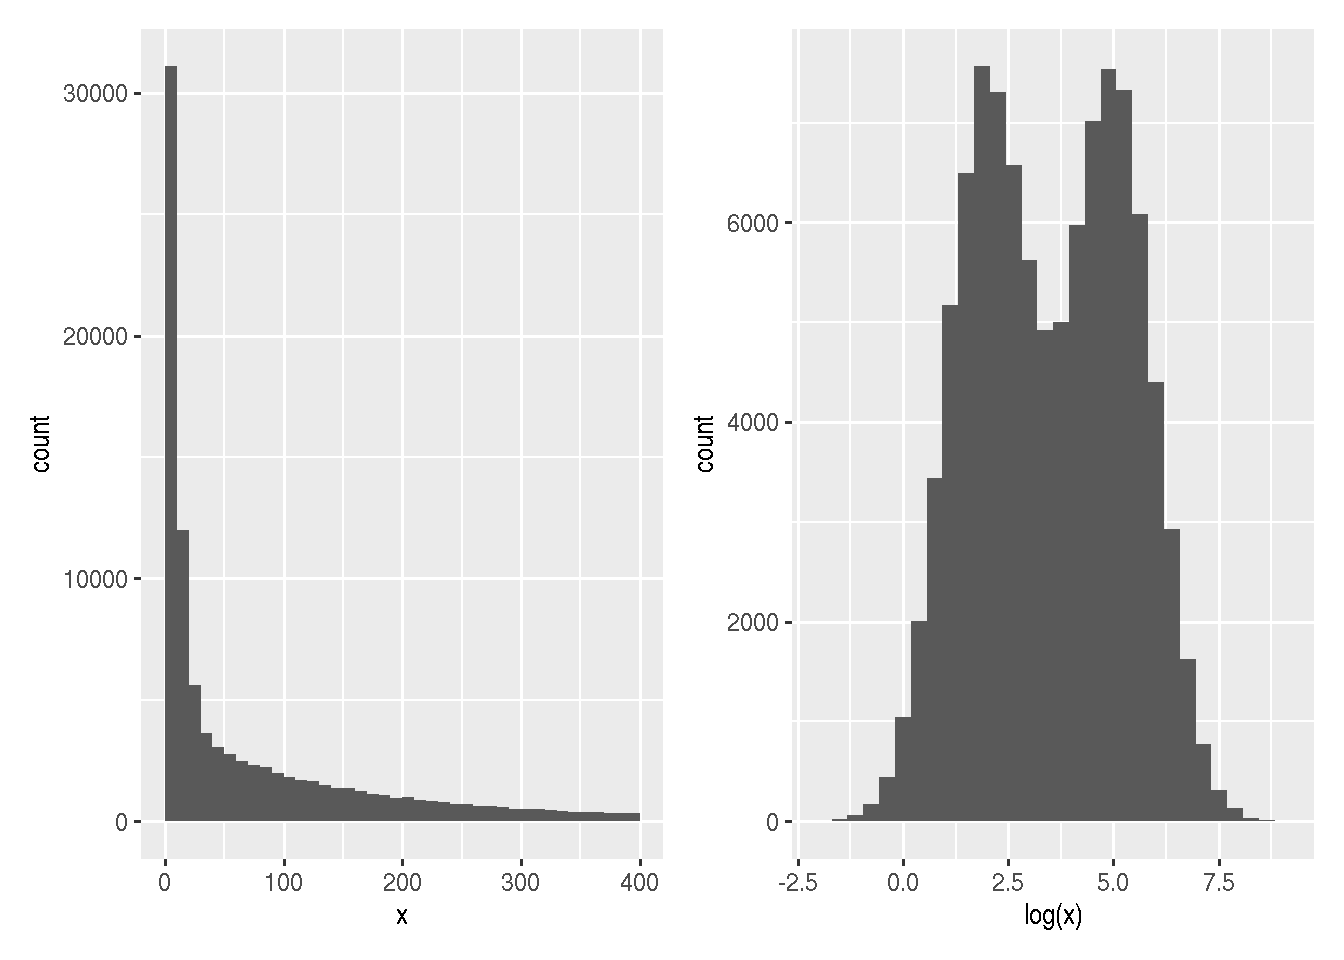
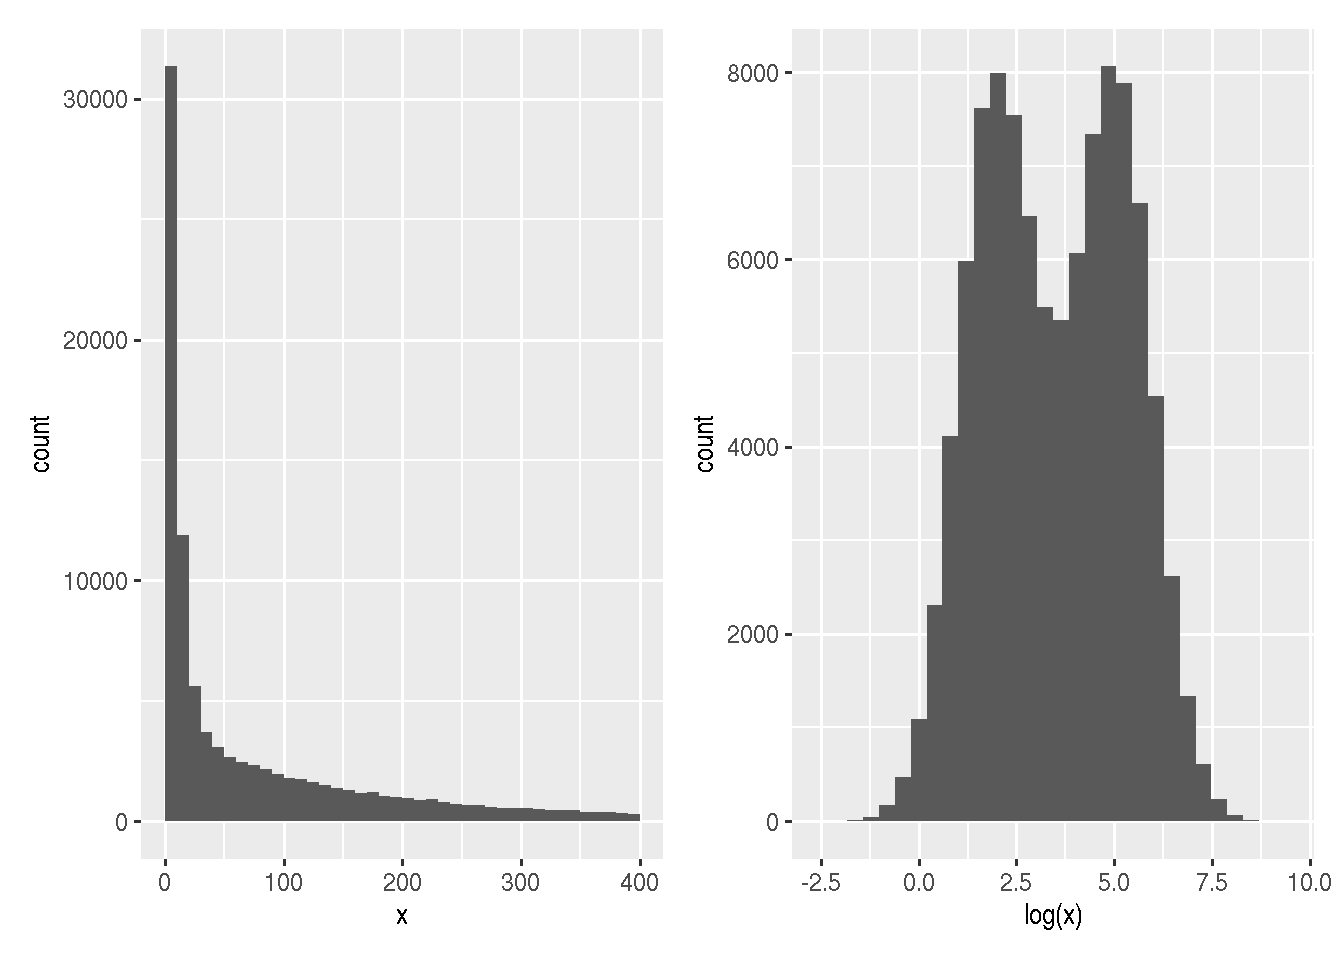
udpate ex + rebuild

diff --git a/docs/sec-refresher.html b/docs/sec-refresher.html
@@ -13,7 +13,7 @@
 
 <meta name="author" content="Laurent Gatto" />
 
-<meta name="date" content="2024-09-30" />
+<meta name="date" content="2024-10-01" />
 
 <script type="text/x-mathjax-config">
 MathJax.Hub.Config({
@@ -372,9 +372,10 @@ state it explicitly in your response.</p>
 <li><p>Create a matrix of dimenions 100 by 100 containing data from a
 normal distribution of mean 0 and standard deviation 1.</p></li>
 <li><p>Compute the means of each row and each column using the <code>apply()</code>
-and <code>rowMeans()</code> and <code>colMeans()</code> function. Confirm that both
-provide the same results.</p></li>
-<li><p>Compute the difference between the column means and the row means.</p></li>
+and <code>rowMeans()</code>/<code>colMeans()</code> functions. Confirm that both provide
+the same results.</p></li>
+<li><p>Compute the difference between the column means and the row
+means. Does the result make sense?</p></li>
 </ul>
 <p class="question-end">
 <span class="fa fa-square-o solution-icon"></span>
@@ -387,11 +388,12 @@ provide the same results.</p></li>
 </p>
 <div class="question-body">
 <ul>
-<li>Using the data <code>kem2_se</code> data from the <code>rWSBIM1322</code> data, compute de
-delta values measured for each gene (delta is the difference between
-the highest and lowest values). To do this, write a function
-<code>delta()</code> that takes a vector of numerics as input and returns the
-delta value, and apply it on the object’s assay.</li>
+<li><p>Using the data <code>kem2_se</code> data from the <code>rWSBIM1322</code> package, compute
+de delta values or each gene (delta is the difference between the
+highest and lowest values). To do this, write a function <code>delta()</code>
+that takes a vector of numerics as input and returns the delta
+value, and apply it on the object’s assay.</p></li>
+<li><p>Re-use your <code>delta()</code> function and apply it on each sample.</p></li>
 </ul>
 <p class="question-end">
 <span class="fa fa-square-o solution-icon"></span>
@@ -406,7 +408,7 @@ delta value, and apply it on the object’s assay.</li>
 <a href="sec-vis.html"><button class="btn btn-default">Next</button></a>
 </p>
 <p class="build-date">Page built: 
-2024-09-30
+2024-10-01
  using 
 R version 4.4.1 (2024-06-14)
 </p>

diff --git a/docs/sec-vis.html b/docs/sec-vis.html
@@ -13,7 +13,7 @@
 
 <meta name="author" content="Laurent Gatto" />
 
-<meta name="date" content="2024-09-30" />
+<meta name="date" content="2024-10-01" />
 
 <script type="text/x-mathjax-config">
 MathJax.Hub.Config({
@@ -929,7 +929,7 @@ of the data.</p>
 <span id="cb37-9"><a href="sec-vis.html#cb37-9" aria-hidden="true"></a>p2 &lt;-<span class="st">  </span><span class="kw">ggplot</span>(sim, <span class="kw">aes</span>(<span class="kw">log</span>(x))) <span class="op">+</span></span>
 <span id="cb37-10"><a href="sec-vis.html#cb37-10" aria-hidden="true"></a><span class="st">    </span><span class="kw">geom_histogram</span>(<span class="dt">bins =</span> <span class="dv">30</span>)</span>
 <span id="cb37-11"><a href="sec-vis.html#cb37-11" aria-hidden="true"></a>p1 <span class="op">+</span><span class="st"> </span>p2</span></code></pre></div>
-<pre><code>## Warning: Removed 7998 rows containing non-finite outside the scale range
+<pre><code>## Warning: Removed 7735 rows containing non-finite outside the scale range
 ## (`stat_bin()`).</code></pre>
 <div class="figure">
 <span style="display:block;" id="fig:sim"></span>
@@ -1177,7 +1177,7 @@ otherwise. Below are some example outputs.</p>
 <a href="sec-obj.html"><button class="btn btn-default">Next</button></a>
 </p>
 <p class="build-date">Page built: 
-2024-09-30
+2024-10-01
  using 
 R version 4.4.1 (2024-06-14)
 </p>

diff --git a/docs/sec-sl.html b/docs/sec-sl.html
@@ -13,7 +13,7 @@
 
 <meta name="author" content="Laurent Gatto" />
 
-<meta name="date" content="2024-09-30" />
+<meta name="date" content="2024-10-01" />
 
 <script type="text/x-mathjax-config">
 MathJax.Hub.Config({
@@ -1029,7 +1029,7 @@ most reliable assignments one, and setting the unreliable ones to
 <a href="sec-biovis.html"><button class="btn btn-default">Next</button></a>
 </p>
 <p class="build-date">Page built: 
-2024-09-30
+2024-10-01
  using 
 R version 4.4.1 (2024-06-14)
 </p>

diff --git a/docs/sec-norm.html b/docs/sec-norm.html
@@ -13,7 +13,7 @@
 
 <meta name="author" content="Laurent Gatto" />
 
-<meta name="date" content="2024-09-30" />
+<meta name="date" content="2024-10-01" />
 
 <script type="text/x-mathjax-config">
 MathJax.Hub.Config({
@@ -737,7 +737,7 @@ samples distributions at each step. Interpret what you see.</p>
 <a href="sec-mlintro.html"><button class="btn btn-default">Next</button></a>
 </p>
 <p class="build-date">Page built: 
-2024-09-30
+2024-10-01
  using 
 R version 4.4.1 (2024-06-14)
 </p>

diff --git a/docs/sec-biovis.html b/docs/sec-biovis.html
@@ -13,7 +13,7 @@
 
 <meta name="author" content="Laurent Gatto" />
 
-<meta name="date" content="2024-09-30" />
+<meta name="date" content="2024-10-01" />
 
 <script type="text/x-mathjax-config">
 MathJax.Hub.Config({
@@ -498,7 +498,7 @@ number of intersections (default is 40) become useful.</p>
 <a href="sec-ccl.html"><button class="btn btn-default">Next</button></a>
 </p>
 <p class="build-date">Page built: 
-2024-09-30
+2024-10-01
  using 
 R version 4.4.1 (2024-06-14)
 </p>

diff --git a/docs/sec-ccl.html b/docs/sec-ccl.html
@@ -13,7 +13,7 @@
 
 <meta name="author" content="Laurent Gatto" />
 
-<meta name="date" content="2024-09-30" />
+<meta name="date" content="2024-10-01" />
 
 <script type="text/x-mathjax-config">
 MathJax.Hub.Config({
@@ -491,7 +491,7 @@ effect of that outlier of the differential analysis.</li>
 <a href="sec-si.html"><button class="btn btn-default">Next</button></a>
 </p>
 <p class="build-date">Page built: 
-2024-09-30
+2024-10-01
  using 
 R version 4.4.1 (2024-06-14)
 </p>

diff --git a/docs/sec-obj.html b/docs/sec-obj.html
@@ -13,7 +13,7 @@
 
 <meta name="author" content="Laurent Gatto" />
 
-<meta name="date" content="2024-09-30" />
+<meta name="date" content="2024-10-01" />
 
 <script type="text/x-mathjax-config">
 MathJax.Hub.Config({
@@ -1007,7 +1007,7 @@ of class <code>SummarizedExperiment</code>.</p>
 <a href="sec-biostrings.html"><button class="btn btn-default">Next</button></a>
 </p>
 <p class="build-date">Page built: 
-2024-09-30
+2024-10-01
  using 
 R version 4.4.1 (2024-06-14)
 </p>

diff --git a/docs/sec-mlintro.html b/docs/sec-mlintro.html
@@ -13,7 +13,7 @@
 
 <meta name="author" content="Laurent Gatto" />
 
-<meta name="date" content="2024-09-30" />
+<meta name="date" content="2024-10-01" />
 
 <script type="text/x-mathjax-config">
 MathJax.Hub.Config({
@@ -740,7 +740,7 @@ but these are beyond the scope of this course.</p>
 <a href="sec-testing.html"><button class="btn btn-default">Next</button></a>
 </p>
 <p class="build-date">Page built: 
-2024-09-30
+2024-10-01
  using 
 R version 4.4.1 (2024-06-14)
 </p>

diff --git a/docs/sec-ul.html b/docs/sec-ul.html
@@ -13,7 +13,7 @@
 
 <meta name="author" content="Laurent Gatto" />
 
-<meta name="date" content="2024-09-30" />
+<meta name="date" content="2024-10-01" />
 
 <script type="text/x-mathjax-config">
 MathJax.Hub.Config({
@@ -976,7 +976,7 @@ average marker profiles, such as shown below.</p></li>
 <a href="sec-sl.html"><button class="btn btn-default">Next</button></a>
 </p>
 <p class="build-date">Page built: 
-2024-09-30
+2024-10-01
  using 
 R version 4.4.1 (2024-06-14)
 </p>

diff --git a/docs/index.html b/docs/index.html
@@ -13,7 +13,7 @@
 
 <meta name="author" content="Laurent Gatto" />
 
-<meta name="date" content="2024-09-30" />
+<meta name="date" content="2024-10-01" />
 
 <script type="text/x-mathjax-config">
 MathJax.Hub.Config({
@@ -327,7 +327,7 @@ course. It can be installed with</p>
 <a href="sec-refresher.html"><button class="btn btn-default">Next</button></a>
 </p>
 <p class="build-date">Page built: 
-2024-09-30
+2024-10-01
  using 
 R version 4.4.1 (2024-06-14)
 </p>

diff --git a/docs/sec-si.html b/docs/sec-si.html
@@ -13,7 +13,7 @@
 
 <meta name="author" content="Laurent Gatto" />
 
-<meta name="date" content="2024-09-30" />
+<meta name="date" content="2024-10-01" />
 
 <script type="text/x-mathjax-config">
 MathJax.Hub.Config({
@@ -299,7 +299,7 @@ the following code:</p>
 <a href="sec-ccl.html"><button class="btn btn-default">Previous</button></a>
 </p>
 <p class="build-date">Page built: 
-2024-09-30
+2024-10-01
  using 
 R version 4.4.1 (2024-06-14)
 </p>

diff --git a/docs/sec-testing.html b/docs/sec-testing.html
@@ -13,7 +13,7 @@
 
 <meta name="author" content="Laurent Gatto" />
 
-<meta name="date" content="2024-09-30" />
+<meta name="date" content="2024-10-01" />
 
 <script type="text/x-mathjax-config">
 MathJax.Hub.Config({
@@ -1109,7 +1109,7 @@ conclusion now?</li>
 <a href="sec-dimred.html"><button class="btn btn-default">Next</button></a>
 </p>
 <p class="build-date">Page built: 
-2024-09-30
+2024-10-01
  using 
 R version 4.4.1 (2024-06-14)
 </p>
